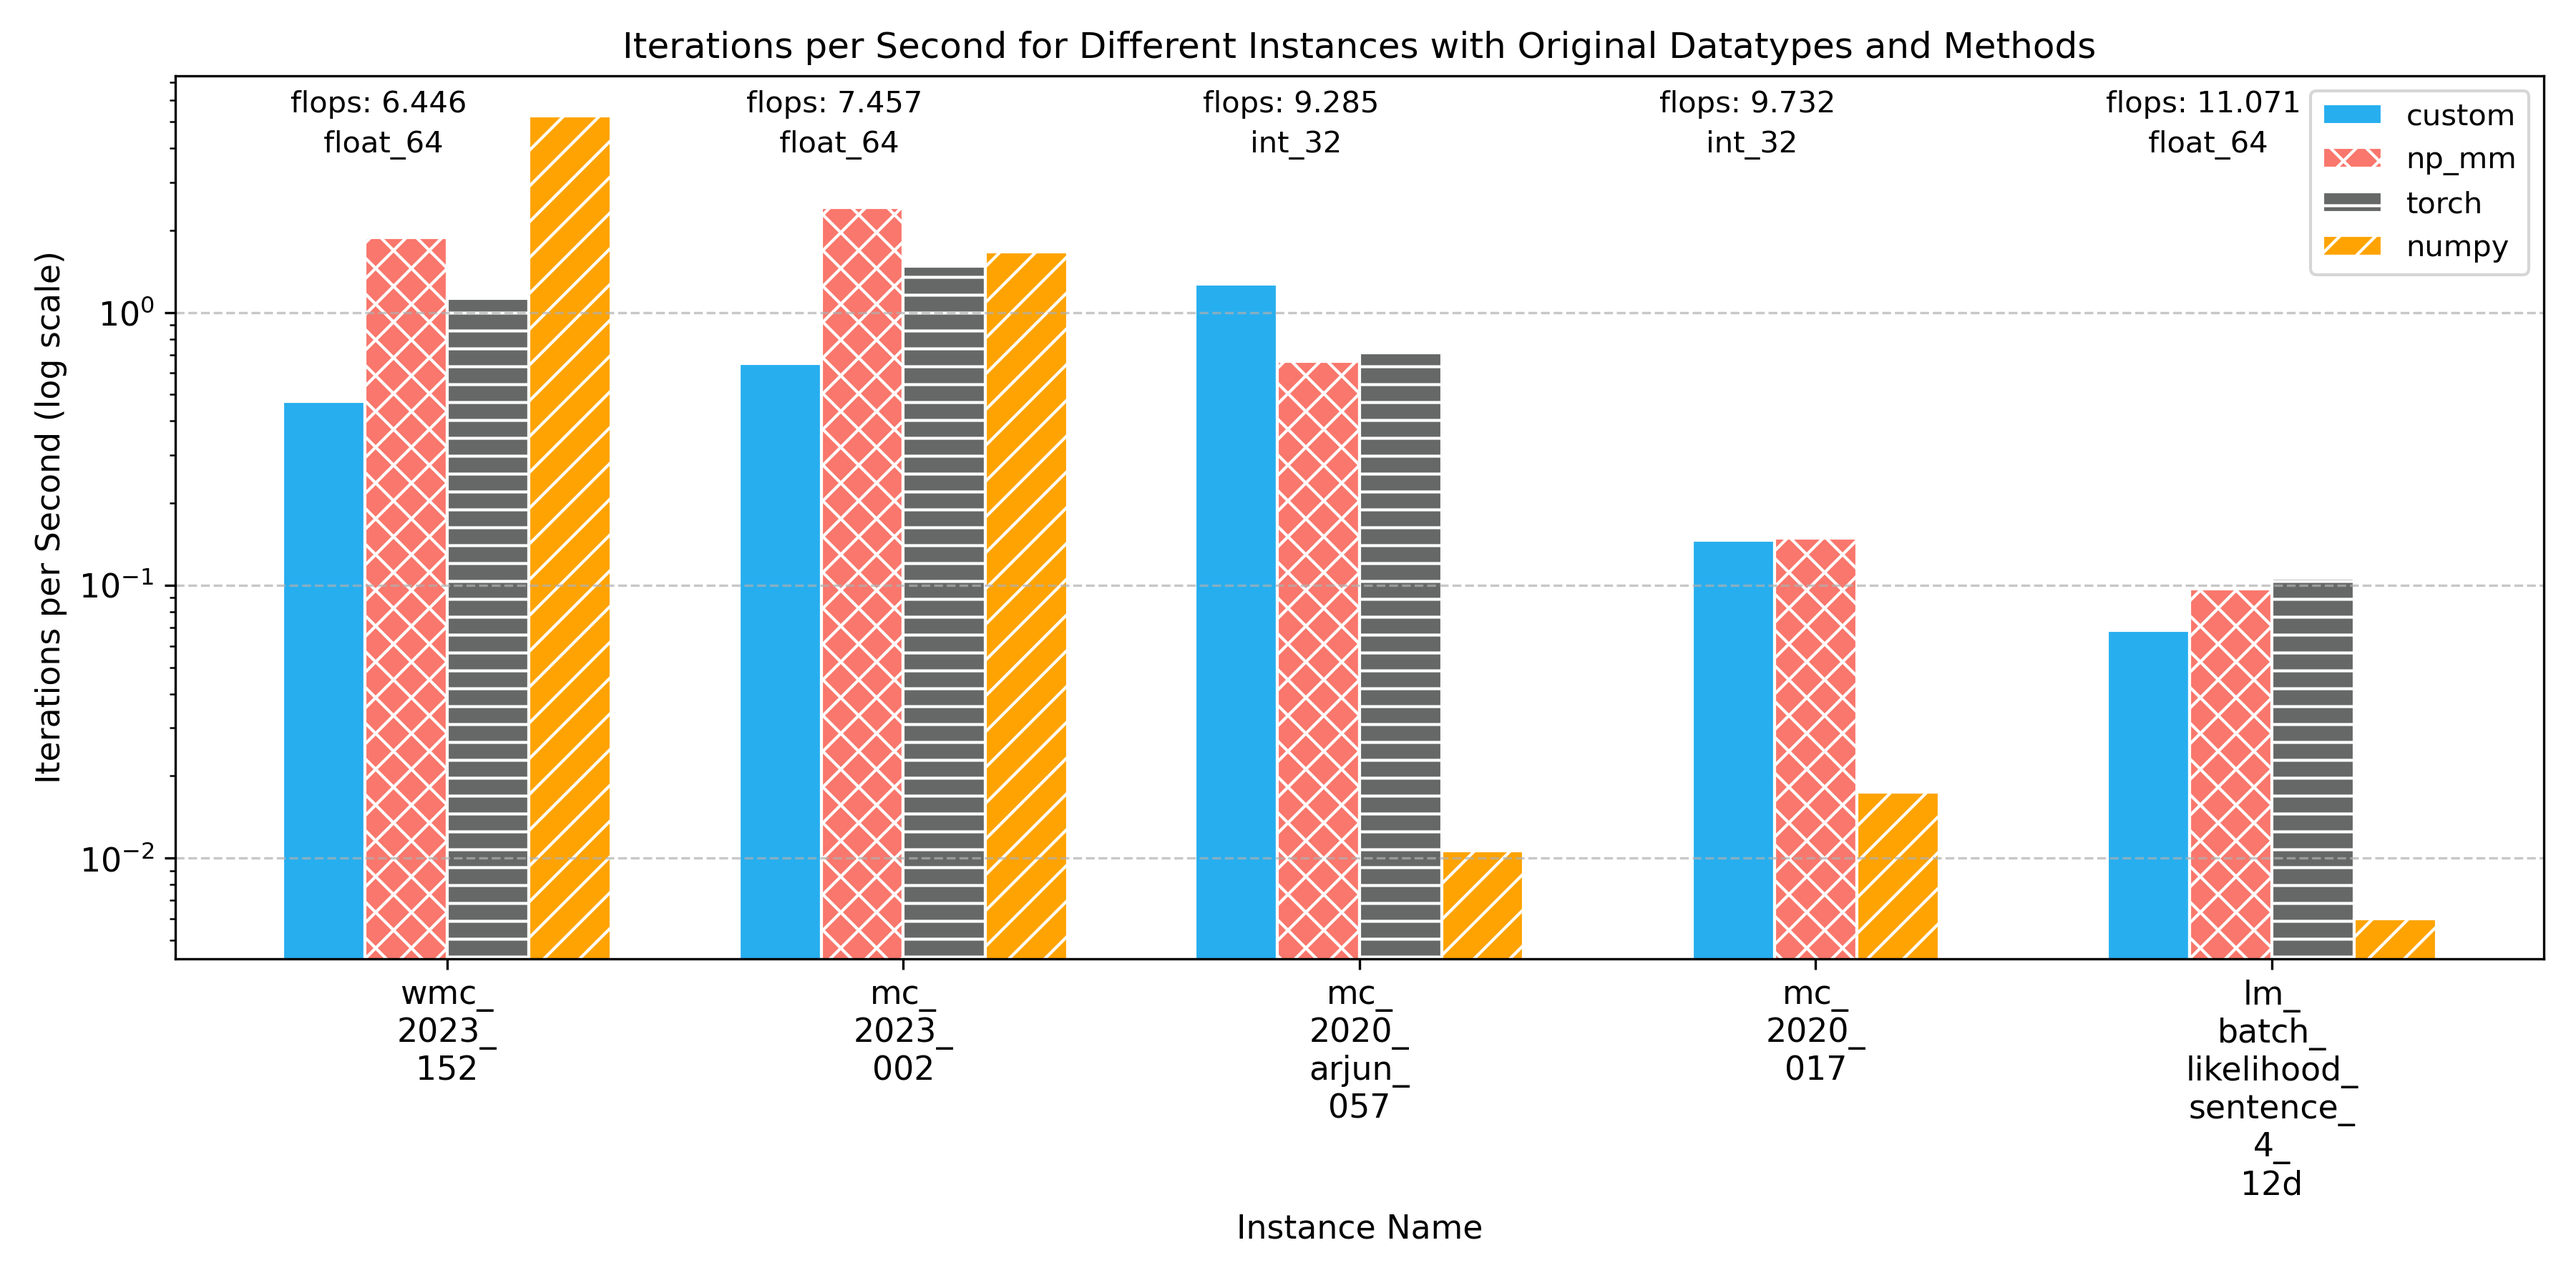
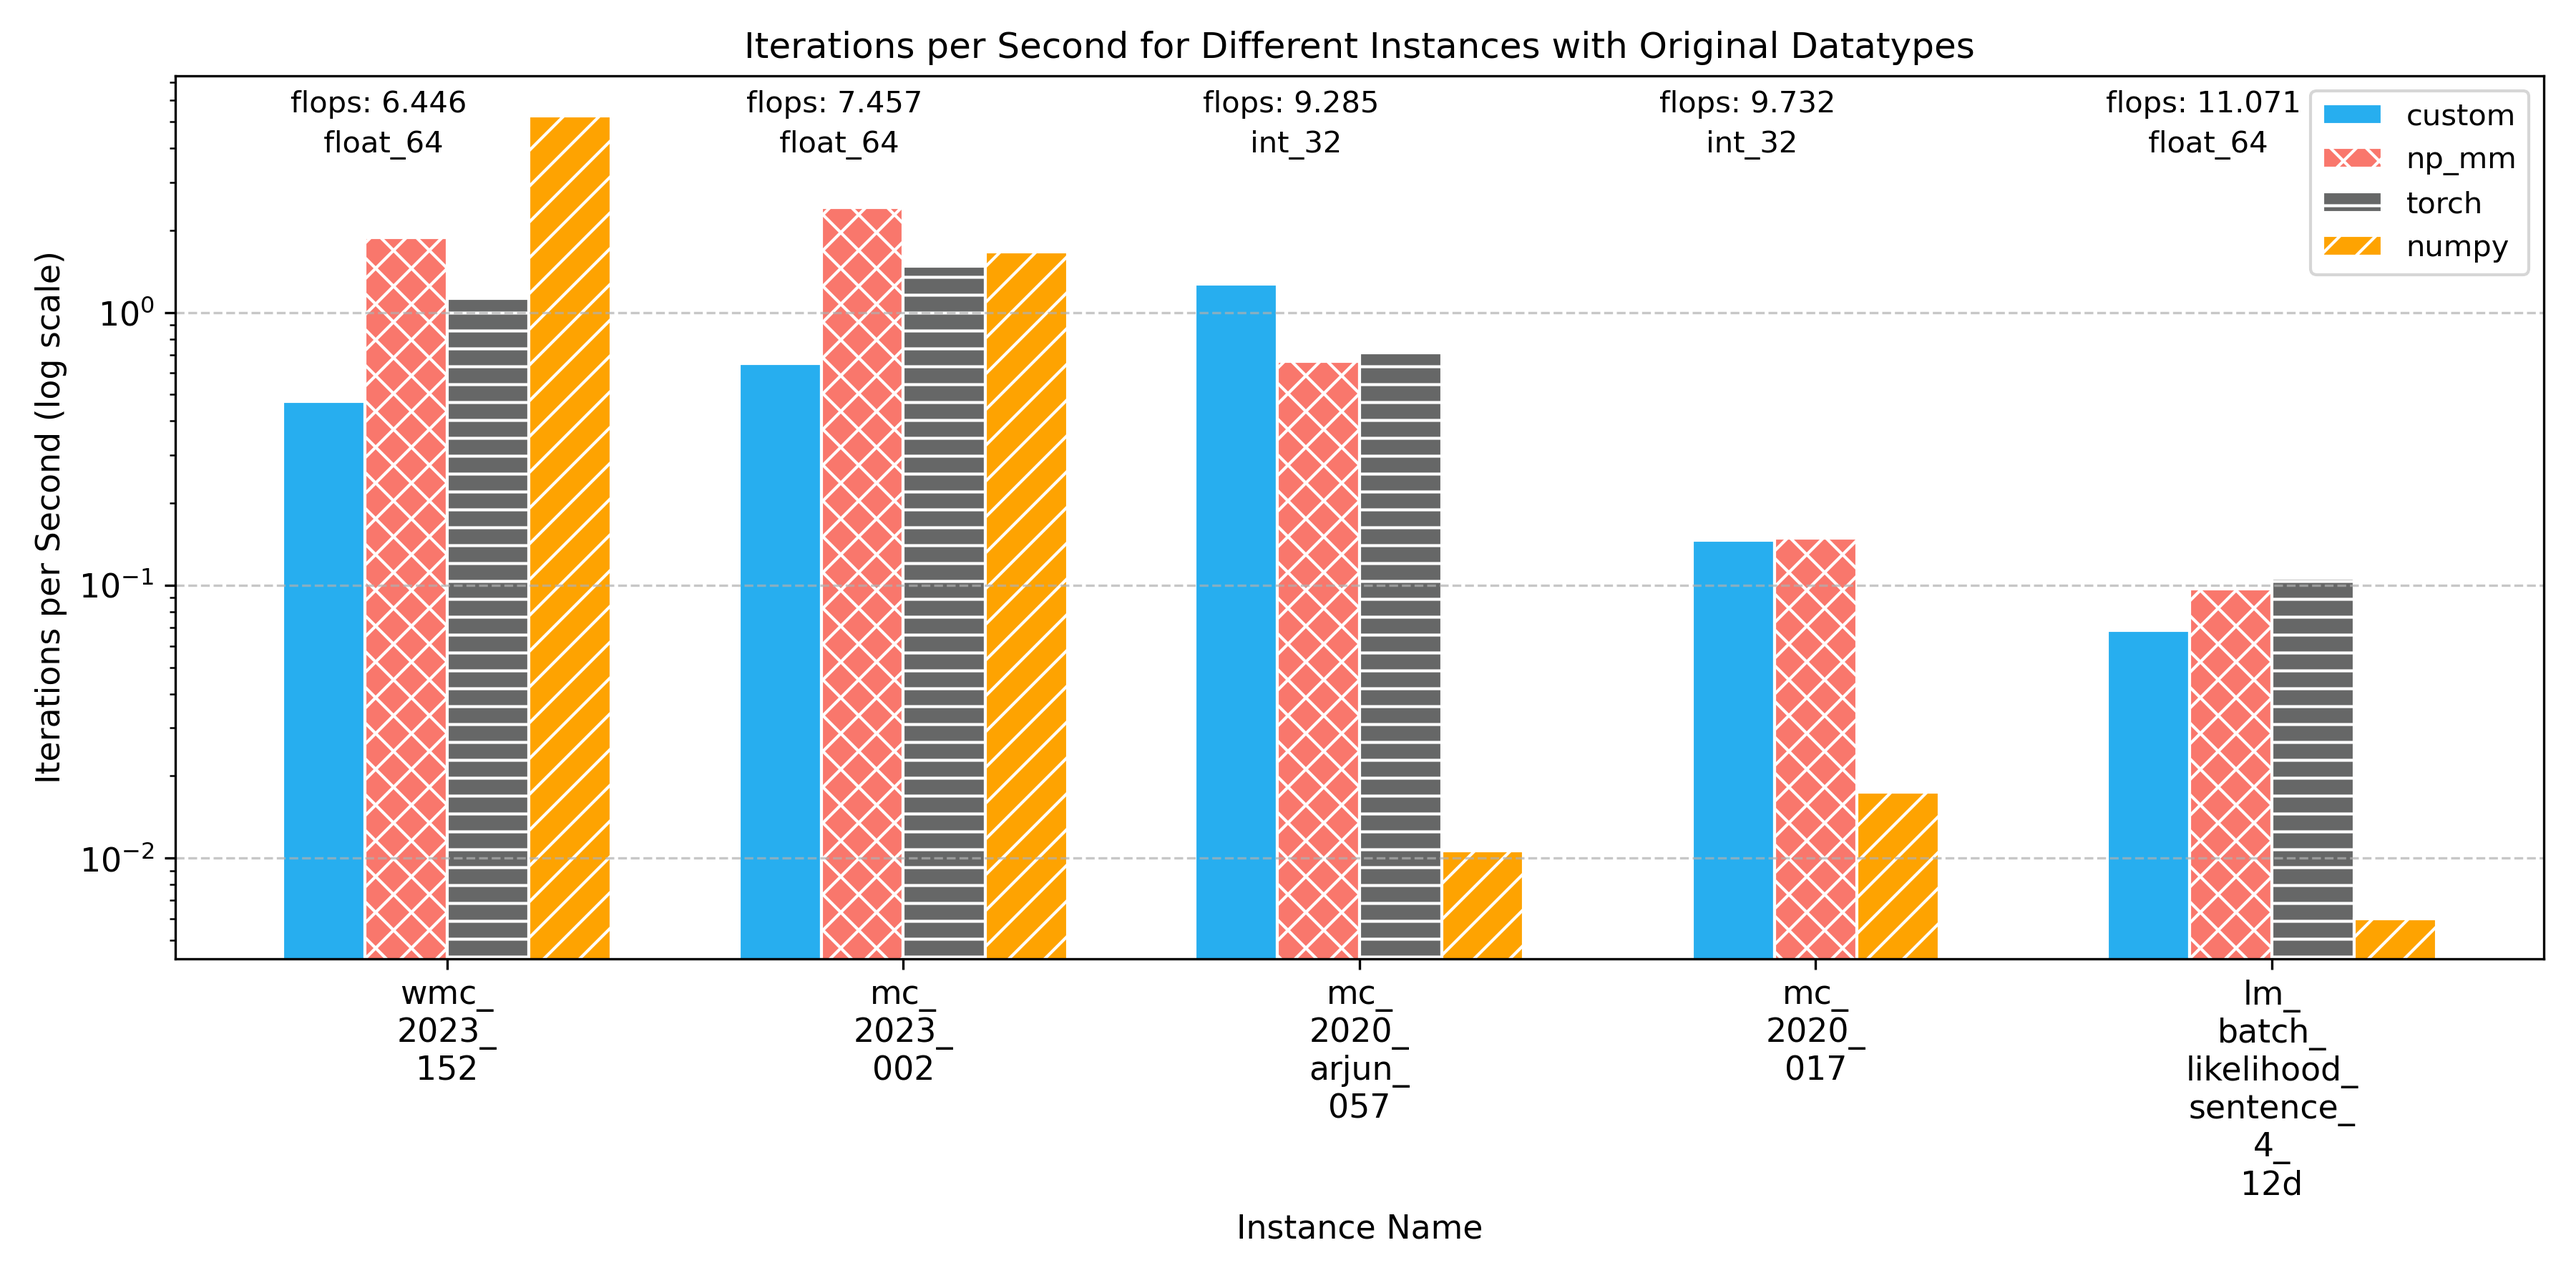
redid plots

Changed region(s): [[0.2489, 0.0, 0.8089, 0.0622]]

diff --git a/data/plots_dict.py b/data/plots_dict.py
@@ -49,7 +49,7 @@ def dynamic_normal_plot(filename):
     plt.ylabel("Iterations per Second (log scale)", fontsize = fontsize)
     base_filename = filename.split('.')[0]
     display_name = re.sub(r'[_]', ' ', base_filename)
-    plt.title(f"Iterations per Second for Different Instances with {display_name} and Methods")
+    plt.title(f"Iterations per Second for Different Instances with {display_name}")
     plt.xticks(range(len(instance_names)), split_names, rotation=0, ha="center")
     ymax = plt.ylim()[1]
     for i,  instance in enumerate(instance_names):
@@ -57,11 +57,11 @@ def dynamic_normal_plot(filename):
         x_pos = i -0.15 #+ bar_width * (len(timing_methods)/ 2)
         #y_pos = max([data[instance].get(m, 0) or 0 for m in timing_methods])  # get highest bar height
         plt.text(x_pos, ymax * 0.98, f"flops: {flops}", ha='center', fontsize=10, rotation=0)
-    #for i,  instance in enumerate(instance_names):
-    #    dtypes = data[instance]['data_type']
-    #    x_pos = i -0.15 #+ bar_width * (len(timing_methods)/ 2)
-    #    #y_pos = max([data[instance].get(m, 0) or 0 for m in timing_methods])  # get highest bar height
-    #    plt.text(x_pos, ymax * 0.7, f" {dtypes}", ha='center', fontsize=10, rotation=0)
+    for i,  instance in enumerate(instance_names):
+        dtypes = data[instance]['data_type']
+        x_pos = i -0.15 #+ bar_width * (len(timing_methods)/ 2)
+        #y_pos = max([data[instance].get(m, 0) or 0 for m in timing_methods])  # get highest bar height
+        plt.text(x_pos, ymax * 0.7, f" {dtypes}", ha='center', fontsize=10, rotation=0)
     plt.yscale('log')
     plt.grid(axis="y", linestyle="--", alpha=0.7)
     plt.tick_params(axis='both', labelsize=fontsize) 
